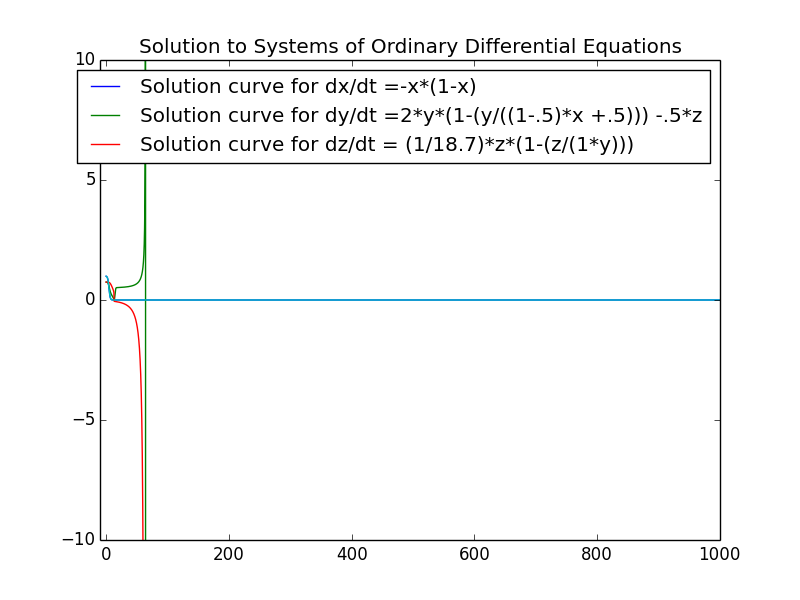
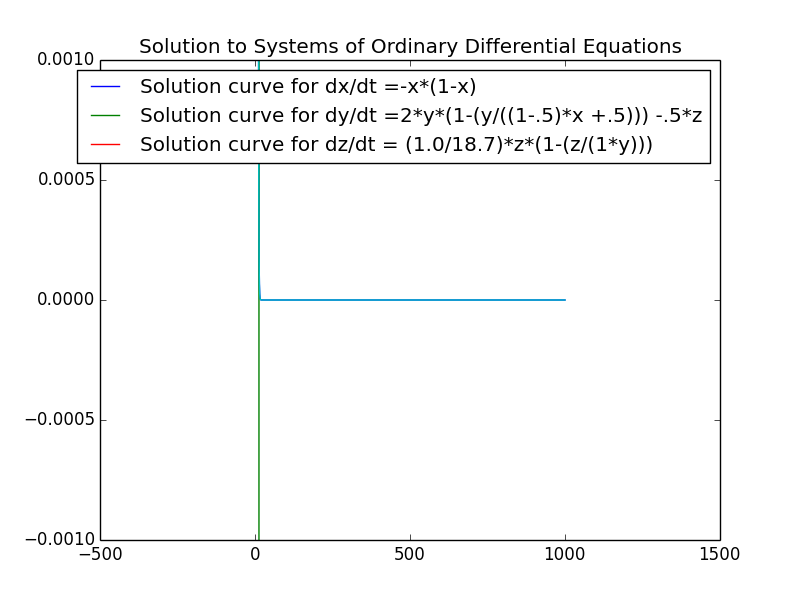
done

diff --git a/SystemRungeKutta.py b/SystemRungeKutta.py
@@ -121,6 +121,7 @@ class SystemSolver:
 		legendNumber=0
 		for x in solutionList:
 			pylab.plot(independentVariableslist,x,label=self.LegendForGraphs[legendNumber])
+			pylab.show()
 			legendNumber=legendNumber+1
 		legendNumber=0
 		xlow=min(independentVariableslist)
@@ -131,15 +132,15 @@ class SystemSolver:
 		#pylab.ylim([math.ceil(ylow-0.5*(yhigh-ylow)), math.ceil(yhigh+0.5*(yhigh-ylow))])
 	 	#pylab.xlim([math.ceil(xlow-0.5*(xhigh-xlow)), math.ceil(xhigh+0.5*(xhigh-xlow))])
 	 	pylab.ylim(-10, 10)
-	 	pylab.xlim(-10, 1000)
+	 	pylab.xlim(-10, 10)
 		pylab.legend()
 		pylab.title("Solution to Systems of Ordinary Differential Equations")
 		pylab.plot(independentVariableslist,solutionList[0])
-		pylab.savefig("RungeKutta-x(t)vst-rx=-1,x0=.99,y0=.74625,z0=.74625.png")
+		#pylab.savefig("RungeKutta-x(t)vst-rx=-1,x0=.99,y0=.74625,z0=.74625.png")
 		pylab.show()
-		pylab.ylim(-100, 10)
-	 	pylab.xlim(-10, 100)
-
+		#pylab.ylim(-100, 10)
+	 	#pylab.xlim(-10, 100)
+'''
 		pylab.title("y(t) vs z(t)")
 		pylab.plot(solutionList[1],solutionList[2])
 		pylab.savefig("RungeKutta-y(t)vsz(t)-rx=-1,x0=.99,y0=.74625,z0=.74625.png")
@@ -147,11 +148,10 @@ class SystemSolver:
 		print "Done"
 		print str(solutionList[1])
 		print str(solutionList[2])
-
-
+'''
 
 #x=SystemSolver("t,x,y","y,-x","0,1",0,2*math.pi,100)
-x=SystemSolver("t,x,y,z","-x*(1-x),2*y*(1-(y/((1-.5)*x +.5))) -.5*z, (1/18.7)*z*(1-(z/(1*y)))",".99,.74625,.74625",0,1000,100000)
+x=SystemSolver("t,x,y,z","x*(1-x)+.1,2*y*(1-(y/(.5*x +.5))) -2*(y/(y+.5))*(z/(z+.5)), (1.0/18.7)*2*(1-(z/(2* (y/(y+.5)) *(z/(z+.5)))))",".99,.74625,.73",0,100,1000)
 x.SolveSystemAndGraphSolution()
 
 

diff --git a/arnoldiAlgo.py b/arnoldiAlgo.py
@@ -1,0 +1,54 @@
+from scipy import *
+from numpy import *
+import numpy as np
+import math
+
+class Arnoldi:
+	#breaks A into QH(Q^T) with starting q1 B
+	#just prints out coloumbs currently q1....qn, will be issue for large matrices.
+	def __init__(self,A,N,B):
+		self.a=mat(A)
+		self.n=N
+		self.b=mat(B).T
+	def algo(self):
+		A=self.a
+		n=self.n
+		B=self.b
+		q1=B/np.linalg.norm(B,2)
+		vectorlist=[]
+		
+		for x in range(0,n+1):
+			#print str(q1)
+			vectorlist.append(q1)
+			v=A*vectorlist[x]
+			#print str(v)
+			for y in range(0,x):
+				h=((vectorlist[y]).T)*v
+				print str(h)
+				v=v-(float(h.item(0))*vectorlist[y])
+			h1=np.linalg.norm(v,2)
+			q1=v/h1
+		for x in vectorlist:
+			print str(x)
+x=Arnoldi('[1 0 2 3;-1 0 5 2;2 -2 0 0; 2 -1 2 0]',4,'[1.0,1.0,1.0,1]')
+x.algo()
+
+ex=mat('[1 .5 .333;.5 .333 .25; .333 .25 .20]')
+ex1=mat('[0.0 0.0 .00003; 0.0 0.0 0.0; 0.0 0.0 0.0')
+print str(linalg.cond(ex))
+print str(linalg.norm(ex,2))
+
+
+
+
+
+
+
+
+
+
+
+
+
+
+

diff --git a/conguateGradient.py b/conguateGradient.py
@@ -1,0 +1,39 @@
+#Author Ryan Vogt
+#requirement that A is positive definite and symmetric. 
+from scipy import *
+from numpy import *
+import numpy as np
+import math
+
+class conGradient:
+	def __init__(self,A,b,TOL,x):
+	 	self.a=np.matrix(A)
+	 	self.b=np.matrix(b).T
+	 	self.x=np.matrix(x).T
+	 	self.tol=TOL
+	def Algo(self):
+	 	
+	 	A=self.a
+	 	b=self.b
+	 	x=self.x
+	 	xo=x
+	 	ro=b-A*xo
+	 	po=ro
+	 	
+
+
+	 	while(math.fabs(np.linalg.norm(ro,2))>self.tol):
+	 		#print str(math.fabs(np.linalg.norm(ro,2)))
+	 		ak=((ro.transpose())*ro)/((po.transpose())*A*po)
+	 		xn=xo+(float(ak.item(0))*po)
+	 		rn=ro-(float(ak.item(0))*A*po)
+	 		temp=rn.transpose()
+	 		bn=(temp*rn)/((ro.transpose())*ro)
+	 		pn=rn+(float(bn.item(0))*po)
+	 		xo=xn
+	 		ro=rn
+	 		po=pn
+		print "Soltuion found within " + str(self.tol)+ "\n" + str(xn)
+
+x=conGradient('[2 1 1; 1 2 1; 1 1 2]','[4,0,0]', .001, '[0,0,0]')
+x.Algo()

diff --git a/GMRES.py b/GMRES.py
@@ -1,0 +1,47 @@
+from scipy import *
+from numpy import *
+import numpy as np
+import math
+
+class GMRES:
+	def __init__(self,A,b,TOL,x):
+	 	self.a=np.matrix(A)
+	 	self.b=np.matrix(b).T
+	 	self.x=np.matrix(x).T
+	 	self.tol=TOL
+	def Algo(self):
+	 	
+	 	A=self.a
+		n=self.n
+		B=self.b
+		q1=B/np.linalg.norm(B,2)
+		qn=[[]]
+		vectorlist=[]
+		
+		for x in range(0,1000):
+			#print str(q1)
+			vectorlist.append(q1)
+			v=A*vectorlist[x]
+			#print str(v)
+			for y in range(0,x):
+				h=((vectorlist[y]).T)*v
+				print str(h)
+				v=v-(float(h.item(0))*vectorlist[y])
+			h1=np.linalg.norm(v,2)
+			q1=v/h1
+			yn=qn[[x]*A
+			e=[1,0,0,0]
+			b=np.linalg.norm(b-A*self.x)
+			rn=h1*yn-b*e
+			x=qn[x]*yn
+
+
+		print str(x)
+
+
+
+
+
+
+x=GMRES('[2 1 1; 1 2 1; 1 1 2]','[1,2,1]', .001, '[0,0,0]')
+x.Algo()

diff --git a/rayleighquoitent.py b/rayleighquoitent.py
@@ -1,0 +1,29 @@
+from scipy import *
+from numpy import *
+import numpy as np
+import math
+
+class RayQuo:
+	def __init__(self,A,b,u):
+	 	self.a=np.matrix(A)
+	 	self.b=np.matrix(b).T
+	 	self.u=u
+	def Algo(self):
+	 	
+	 	A=self.a
+	 	b=self.b
+	 	u=self.u
+
+
+	 	for x in range(0,100):
+			b=(np.linalg.inv(A-(np.identity(3)*u))*b)/np.linalg.norm(A-(np.identity(3)*u)*b,2)
+			print str(b)
+			u=((b.T)*A*b)/((b.T)*b)
+			u=float(u.item(0))
+			print str(u)
+
+		print str(b)
+		print str(u)
+
+x=RayQuo('[10 -12 -6; 5 -5 -4; -1 0 3]','[4,2,3]',2)
+x.Algo()

diff --git a/expy.py b/expy.py
@@ -1,0 +1,19 @@
+def text2num(s):
+    a = re.split(r"[\s-]+", s)
+    n = 0
+    g = 0
+    for w in a:
+        x = Small.get(w, None)
+        if x is not None:
+            g += x
+        elif w == "hundred":
+            g *= 100
+        else:
+            x = Magnitude.get(w, None)
+            if x is not None:
+                n += g * x
+                g = 0
+            else:
+                print "okay"
+    return n + g
+text2num()

diff --git a/dynamicalsystemplot.py b/dynamicalsystemplot.py
@@ -1,0 +1,23 @@
+import math
+import pylab
+import numpy
+
+def discrete(x1,y1,a):
+	xlist=[]
+	ylist=[]
+	x0=x1
+	y0=y1
+	for x in range(0,1001):
+		xlist.append(x0)
+		ylist.append(y0)
+		xn=(3.0/5.0)*x0 +(4.0/5.0)*y0 -x0*(x0**2 + y0**2)
+		yn=(-a/5.0)*x0 +(3.0/5.0)*y0 -y0*(x0**2 + y0**2)
+		x0=xn
+		y0=yn
+	pylab.plot(xlist,ylist)
+	pylab.show()
+
+discrete(.1,.1,0.0)
+discrete(.1,.1,2.0)
+discrete(.1,.1,4.0)
+discrete(.1,.1,6.0)

diff --git a/power.py b/power.py
@@ -1,0 +1,25 @@
+from scipy import *
+from numpy import *
+import numpy as np
+import math
+
+class Power:
+	def __init__(self,A,b):
+	 	self.a=np.matrix(A)
+	 	self.b=np.matrix(b).T
+	 	
+	def Algo(self):
+	 	
+	 	A=self.a
+	 	b=self.b
+	 
+
+
+	 	for x in range(0,100):
+			nonnorm=(A*b)
+			b=(A*b)/np.linalg.norm(A*b,2)
+
+		print str(nonnorm)
+
+x=Power('[10 -12 -6; 5 -5 -4; -1 0 3]','[4,2,3]')
+x.Algo()
